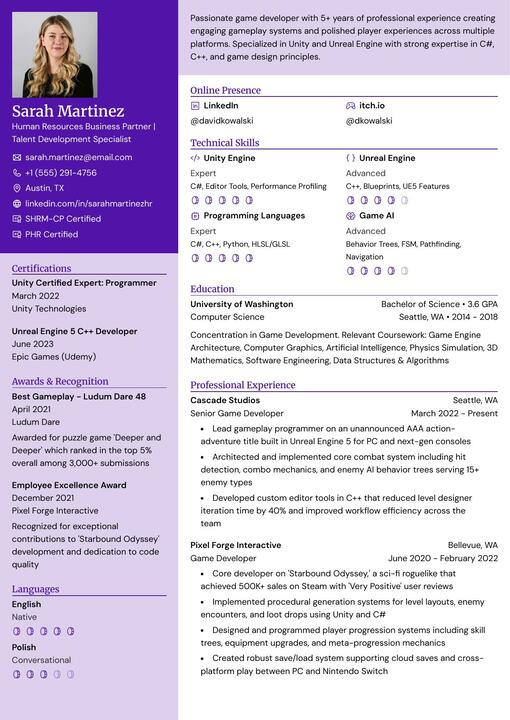
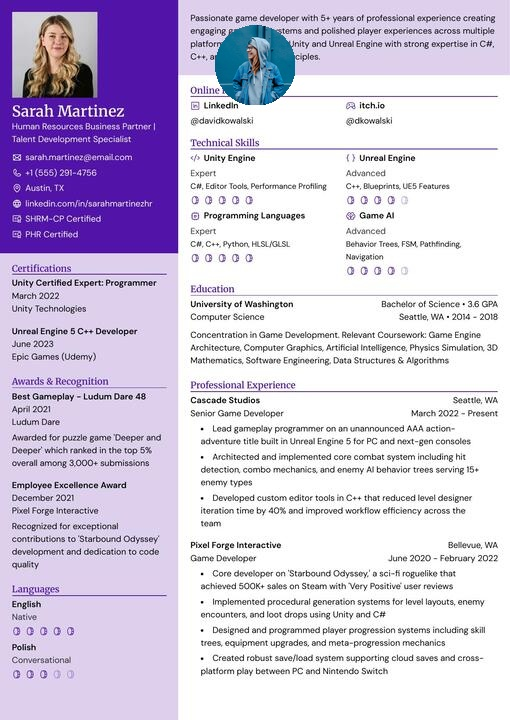
fix: update template preview JPG images with new professional person photos and updated names

Changed region(s): [[0.4118, 0.0306, 0.5882, 0.1528]]

diff --git a/packages/schema/src/resume/sample.ts b/packages/schema/src/resume/sample.ts
@@ -14,9 +14,9 @@ export const sampleResumeData: ResumeData = {
 		shadowWidth: 0,
 	},
 	basics: {
-		name: "David Kowalski",
-		headline: "Game Developer | Unity & Unreal Engine Specialist",
-		email: "david.kowalski@email.com",
+		name: "Dhanush B M",
+		headline: "Full Stack Engineer | React & Node.js Specialist",
+		email: "karthikdhanush686@gmail.com",
 		phone: "+1 (555) 291-4756",
 		location: "Seattle, WA",
 		website: {
